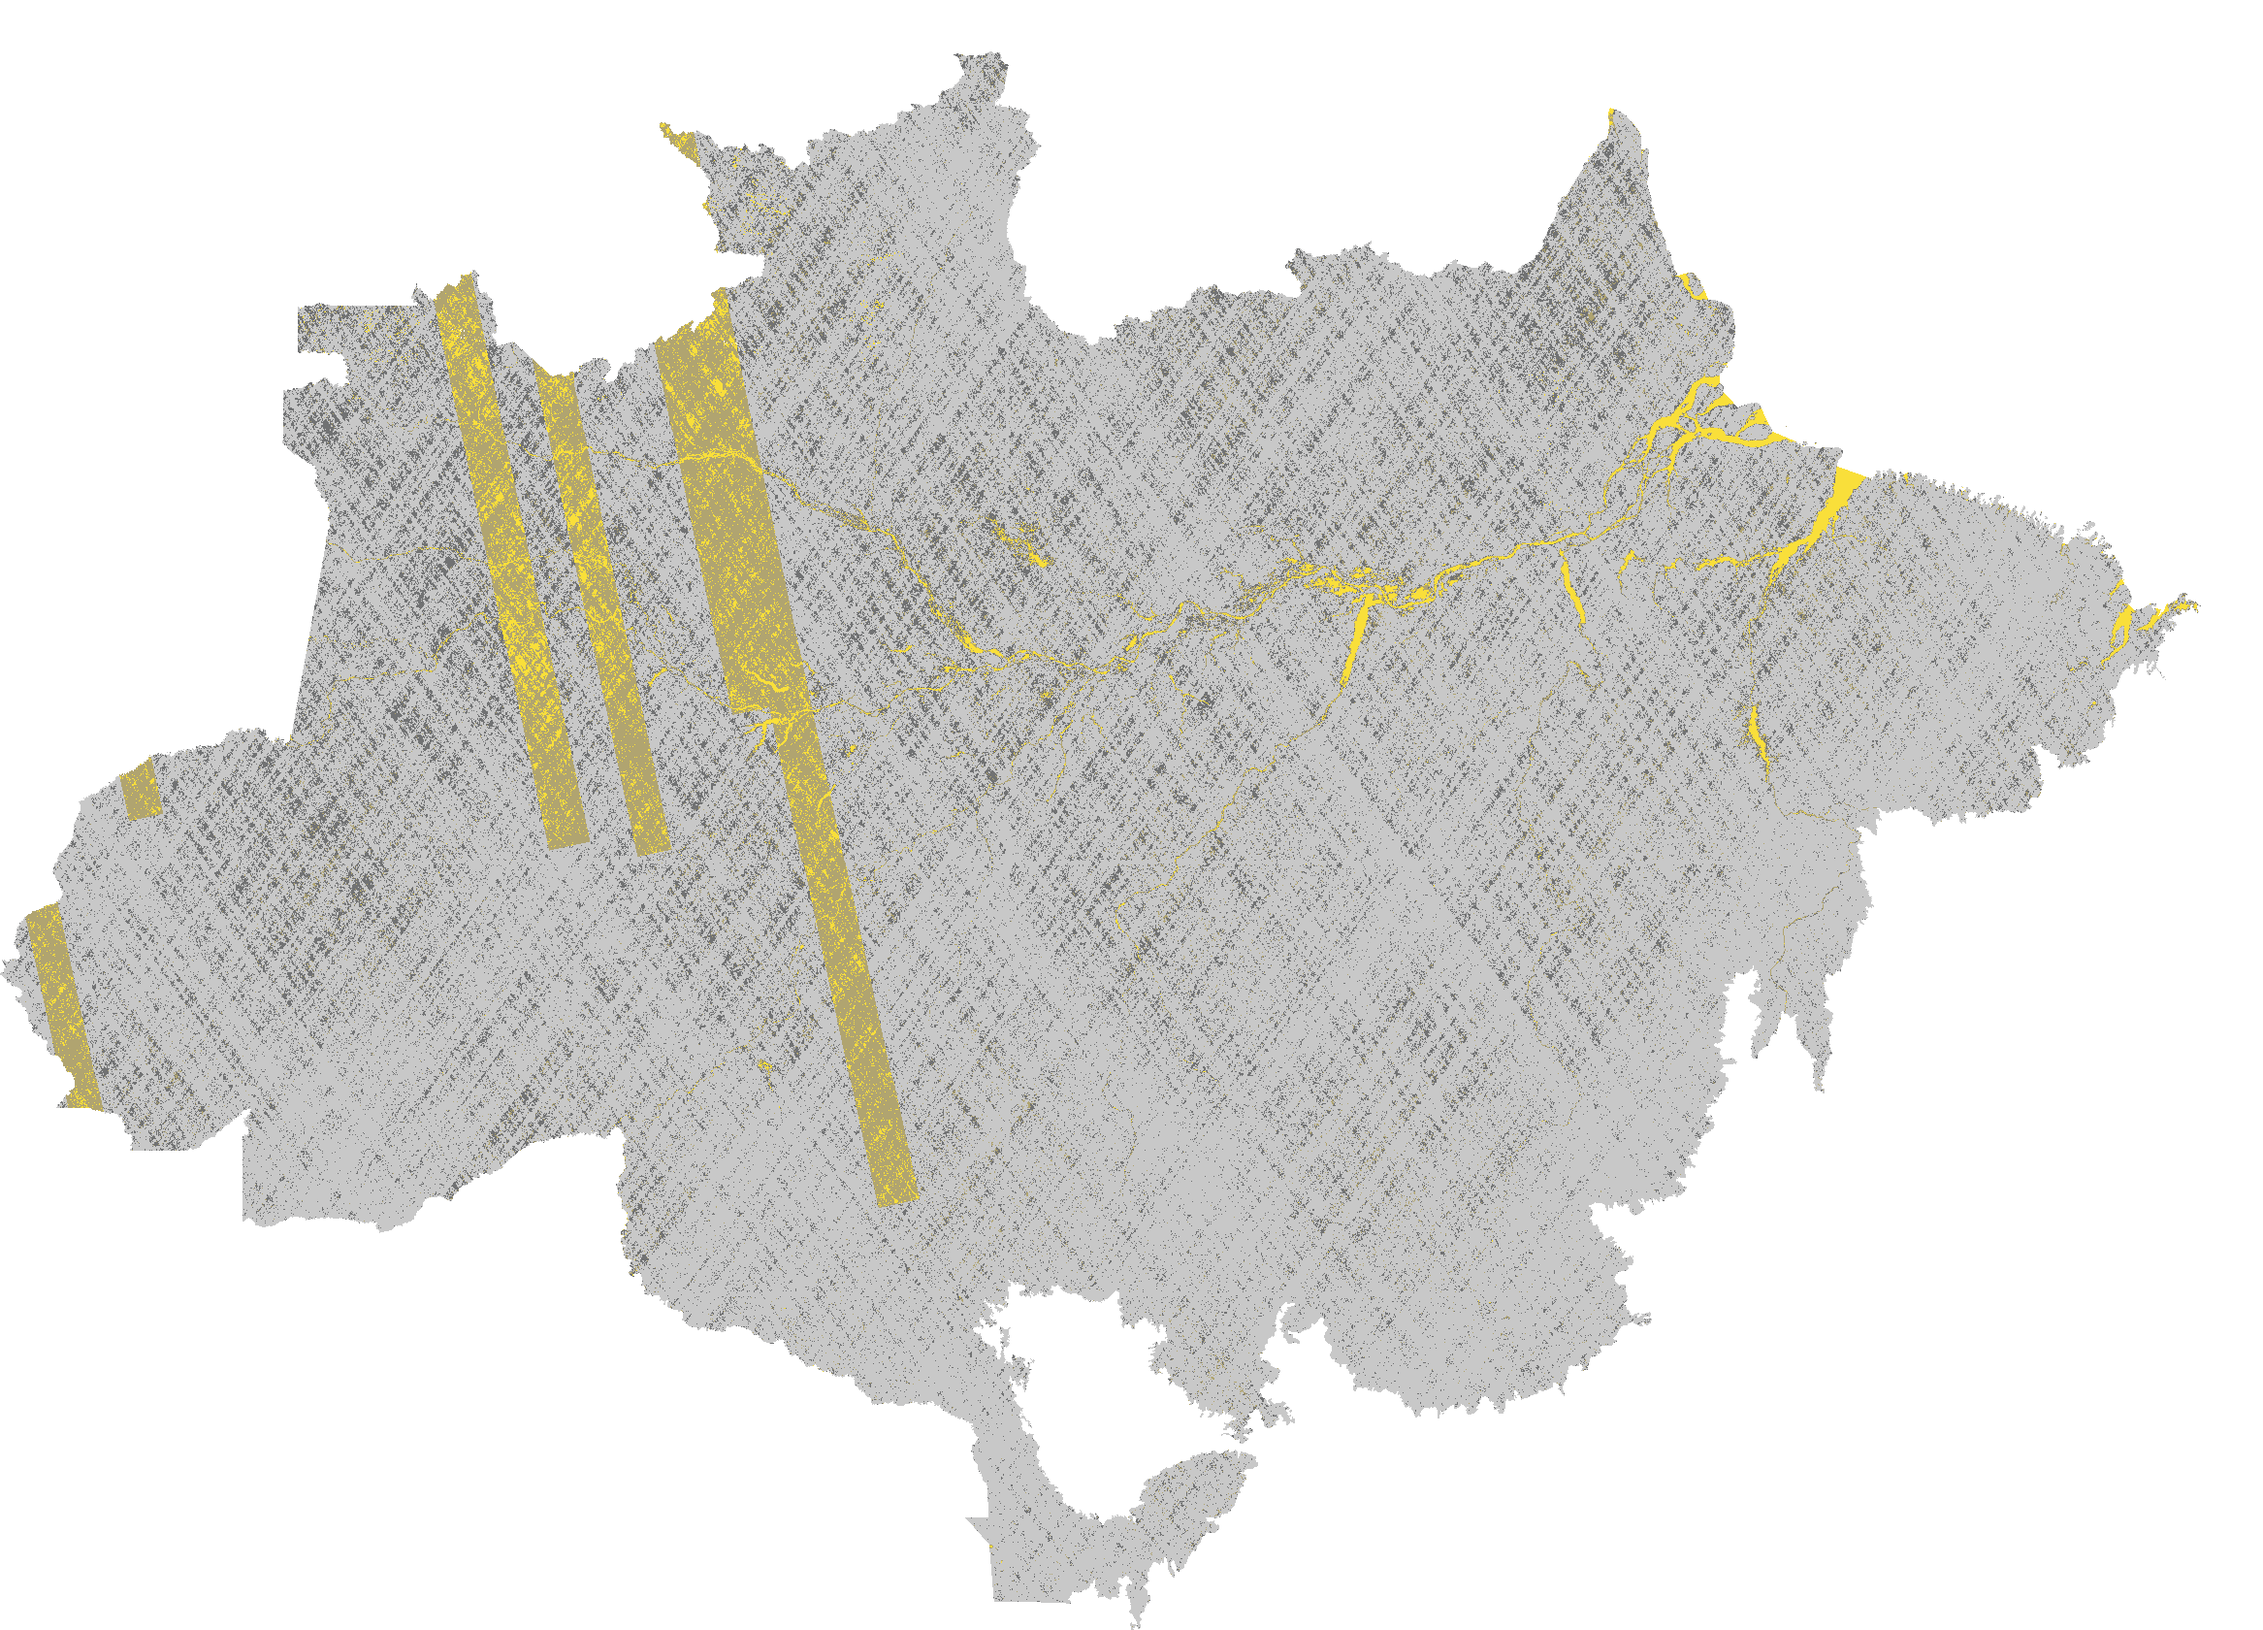
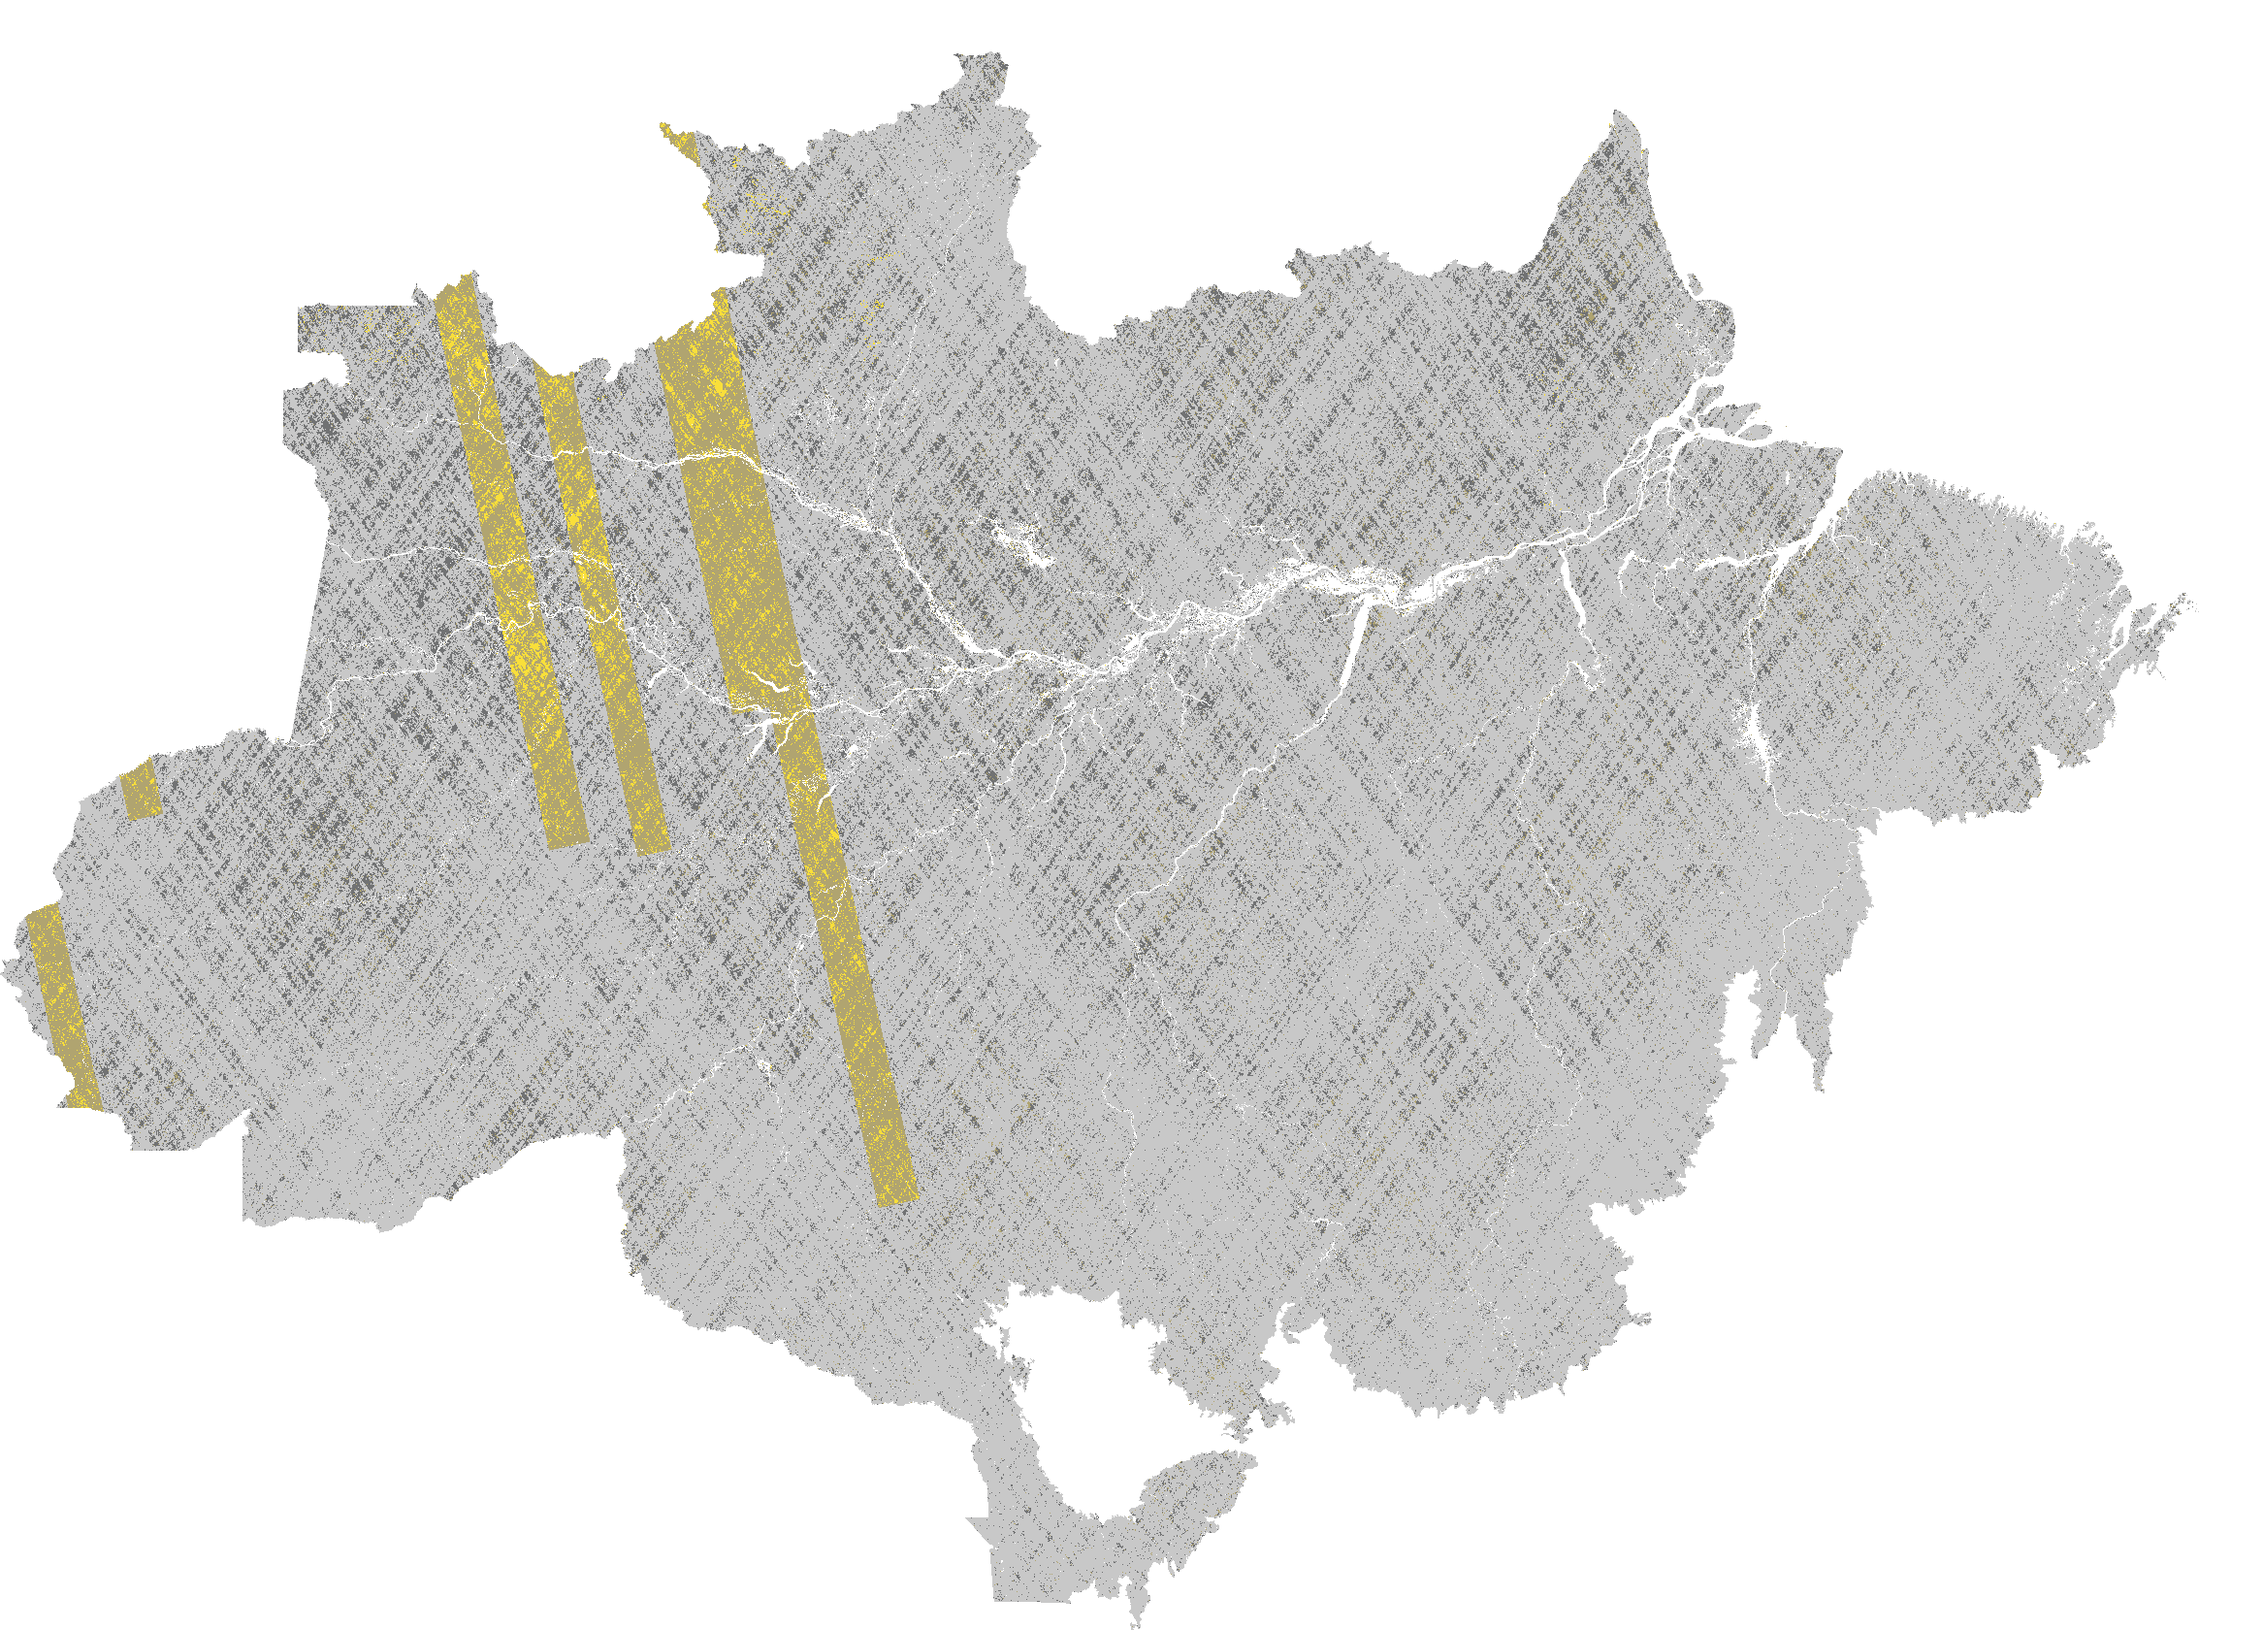
Aplica máscara de água aos três mapas
O modelo foi calibrado apenas sobre vegetação nativa e não viu água no treino.
Sem máscara, a água amazônica recebia mediana de 235,8 t/ha, acima da floresta
ao redor: os produtos de altura de dossel mascaram superfície líquida e o pixel
herdava a mediana estrutural do bioma.

Máscara pela coleção 9 do MapBiomas, classes 33 e 31, mesma época dos mapas.
Remove 2,33 Pg de AGB inexistente (~1,10 Pg C). Os pixels preservados mantêm
predição idêntica, com diferença máxima de 0,000000 t/ha.

diff --git a/README.md b/README.md
@@ -29,6 +29,20 @@ dentro de cada unidade mapeada.
   imputação, contra 7,1% no Cerrado e 1,4% no Maranhão; as faixas diagonais
   correspondem a emendas entre órbitas do mosaico ALOS/PALSAR.
 
+## Máscara de água
+
+Corpos d'água foram removidos pela coleção 9 do MapBiomas, classes 33 e 31, na
+mesma época dos mapas. O modelo foi calibrado apenas sobre vegetação nativa e não
+viu um único pixel de água no treino. Sem a máscara, a água amazônica recebia
+mediana de 235,8 t ha⁻¹, mais que a floresta ao redor: os produtos de altura de
+dossel mascaram superfície líquida e o pixel herdava a mediana estrutural do
+bioma. A remoção eliminou 2,33 Pg de biomassa inexistente, cerca de 1,10 Pg de
+carbono, concentrados no leito dos rios amazônicos.
+
+Pastagem e agricultura permanecem mapeadas, embora também estejam fora do domínio
+de treino. Ali o modelo atribui valores baixos e plausíveis: de 28 a 30 t ha⁻¹ de
+mediana na Amazônia, contra 224 da vegetação nativa.
+
 ## Como ler estes mapas
 
 O viés agregado de cada mapa é próximo de zero, **e isso não indica acurácia**.
